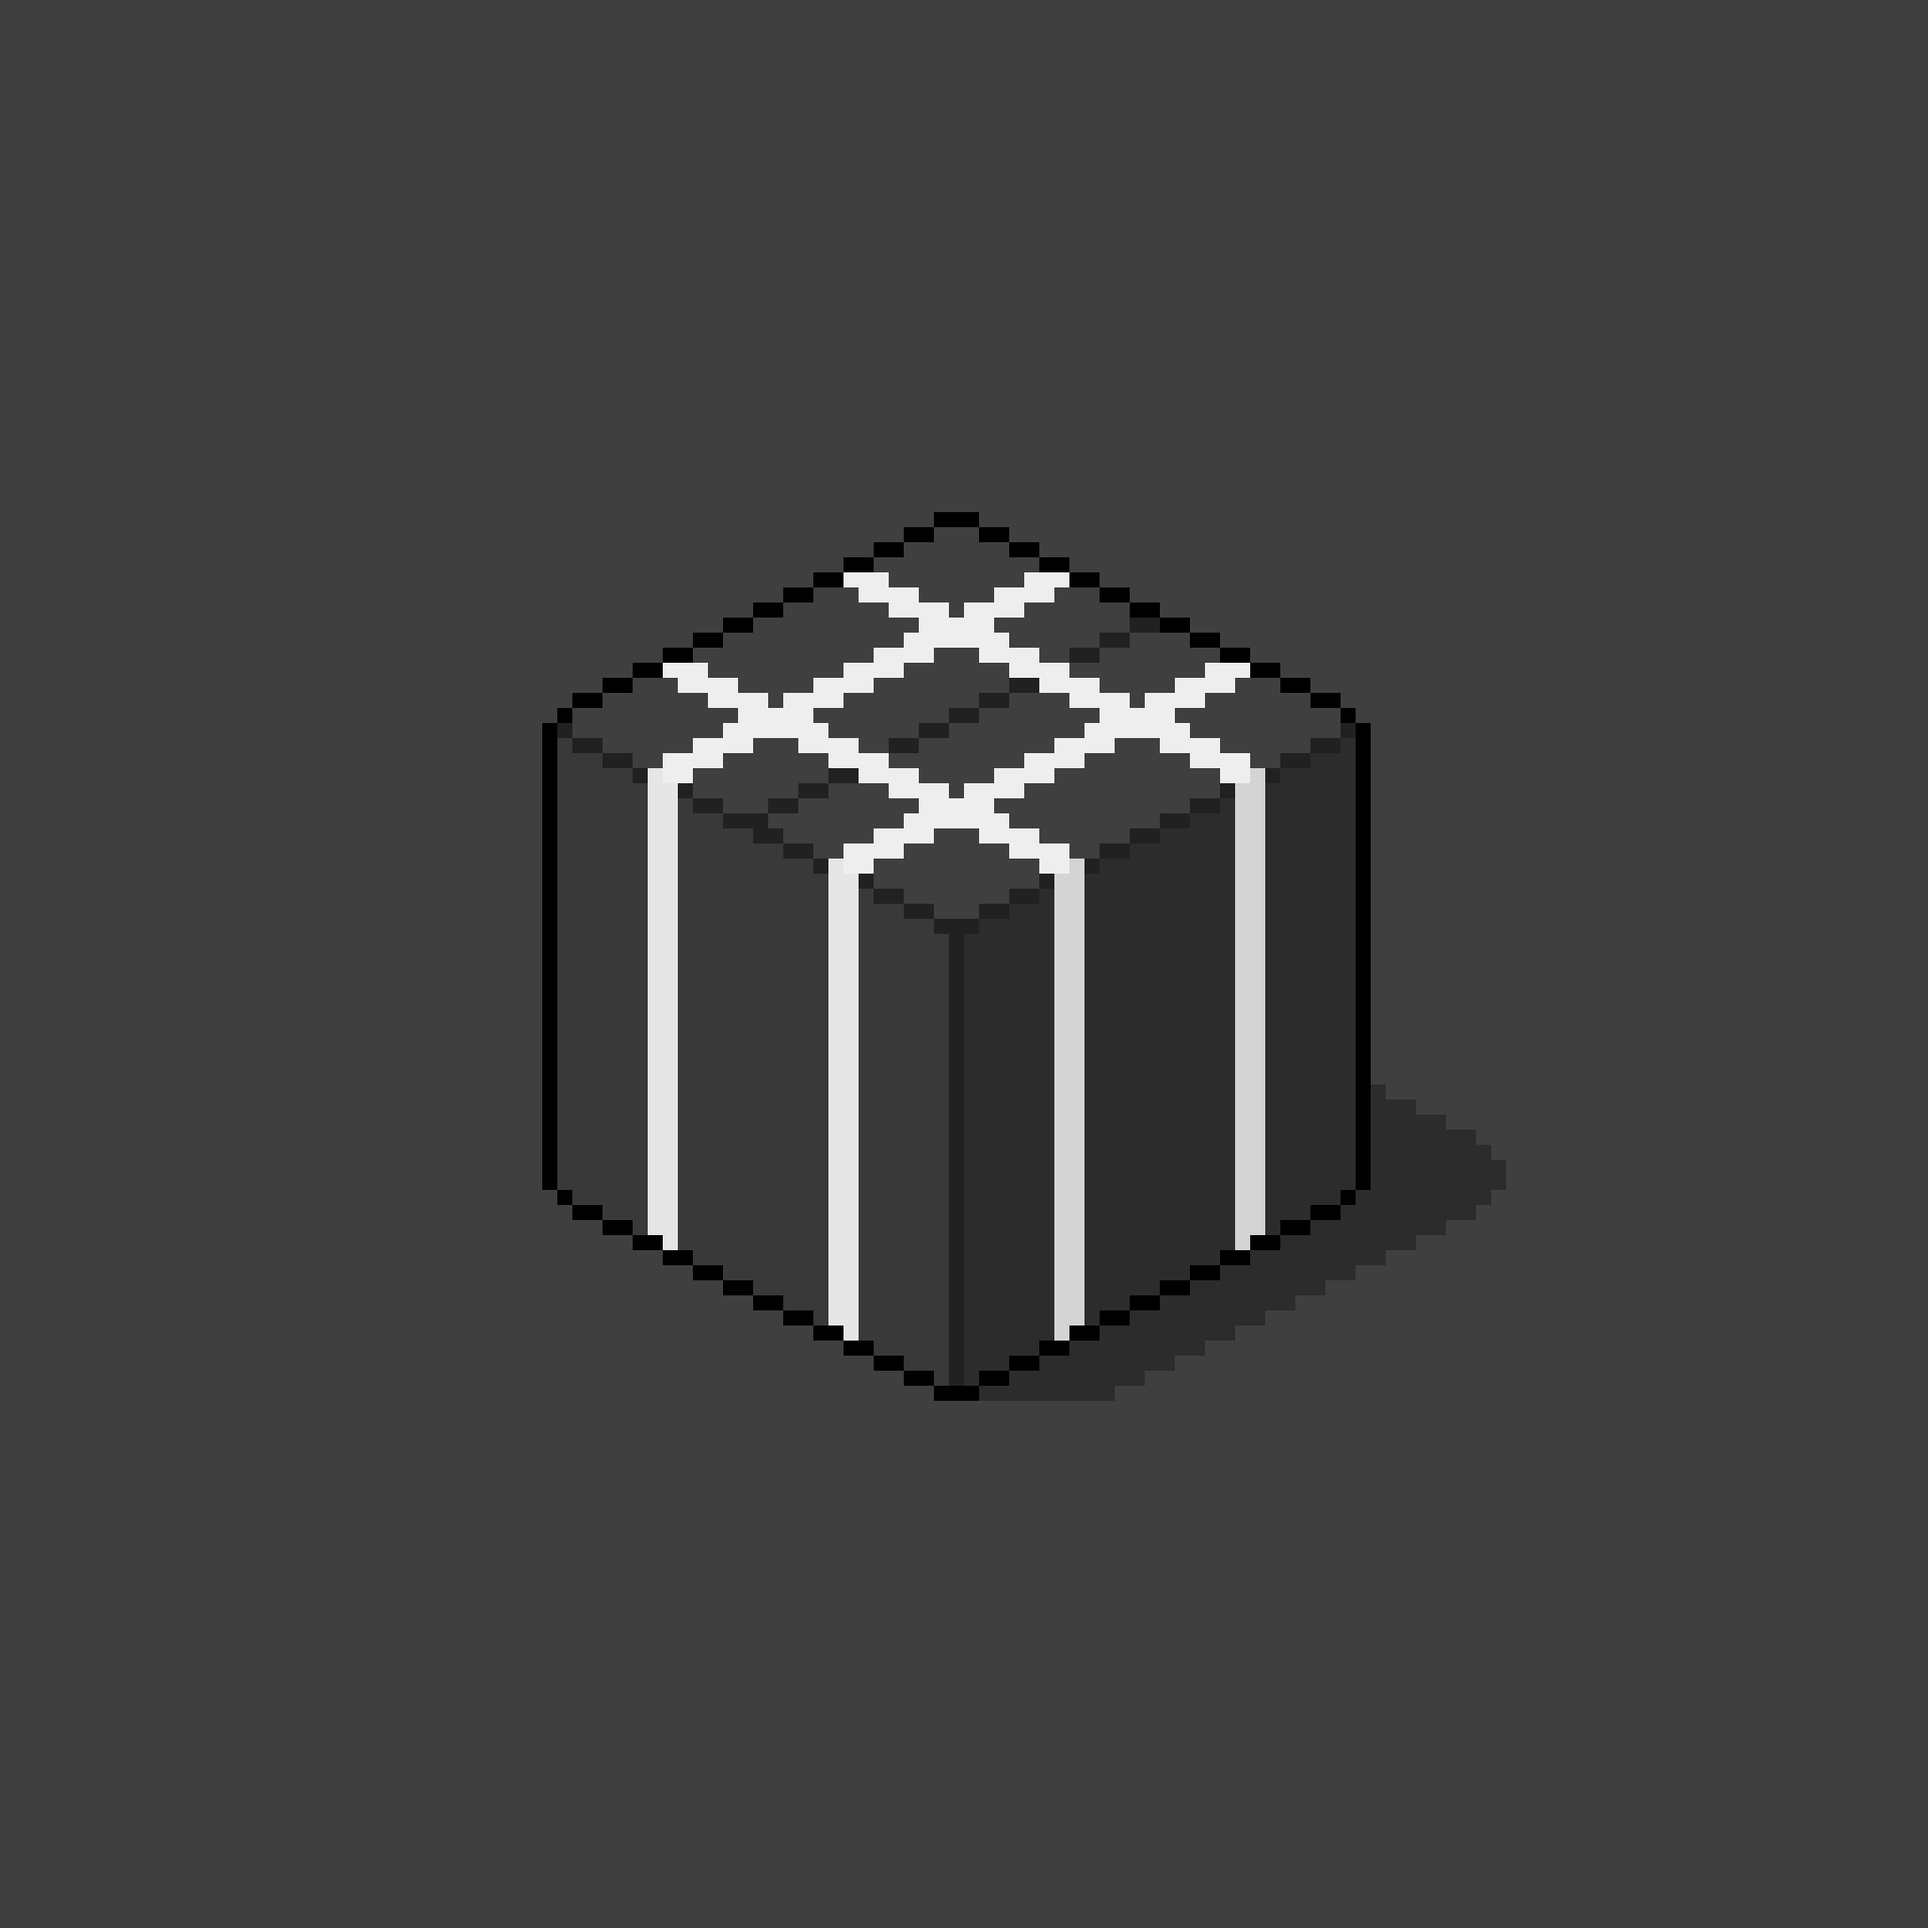
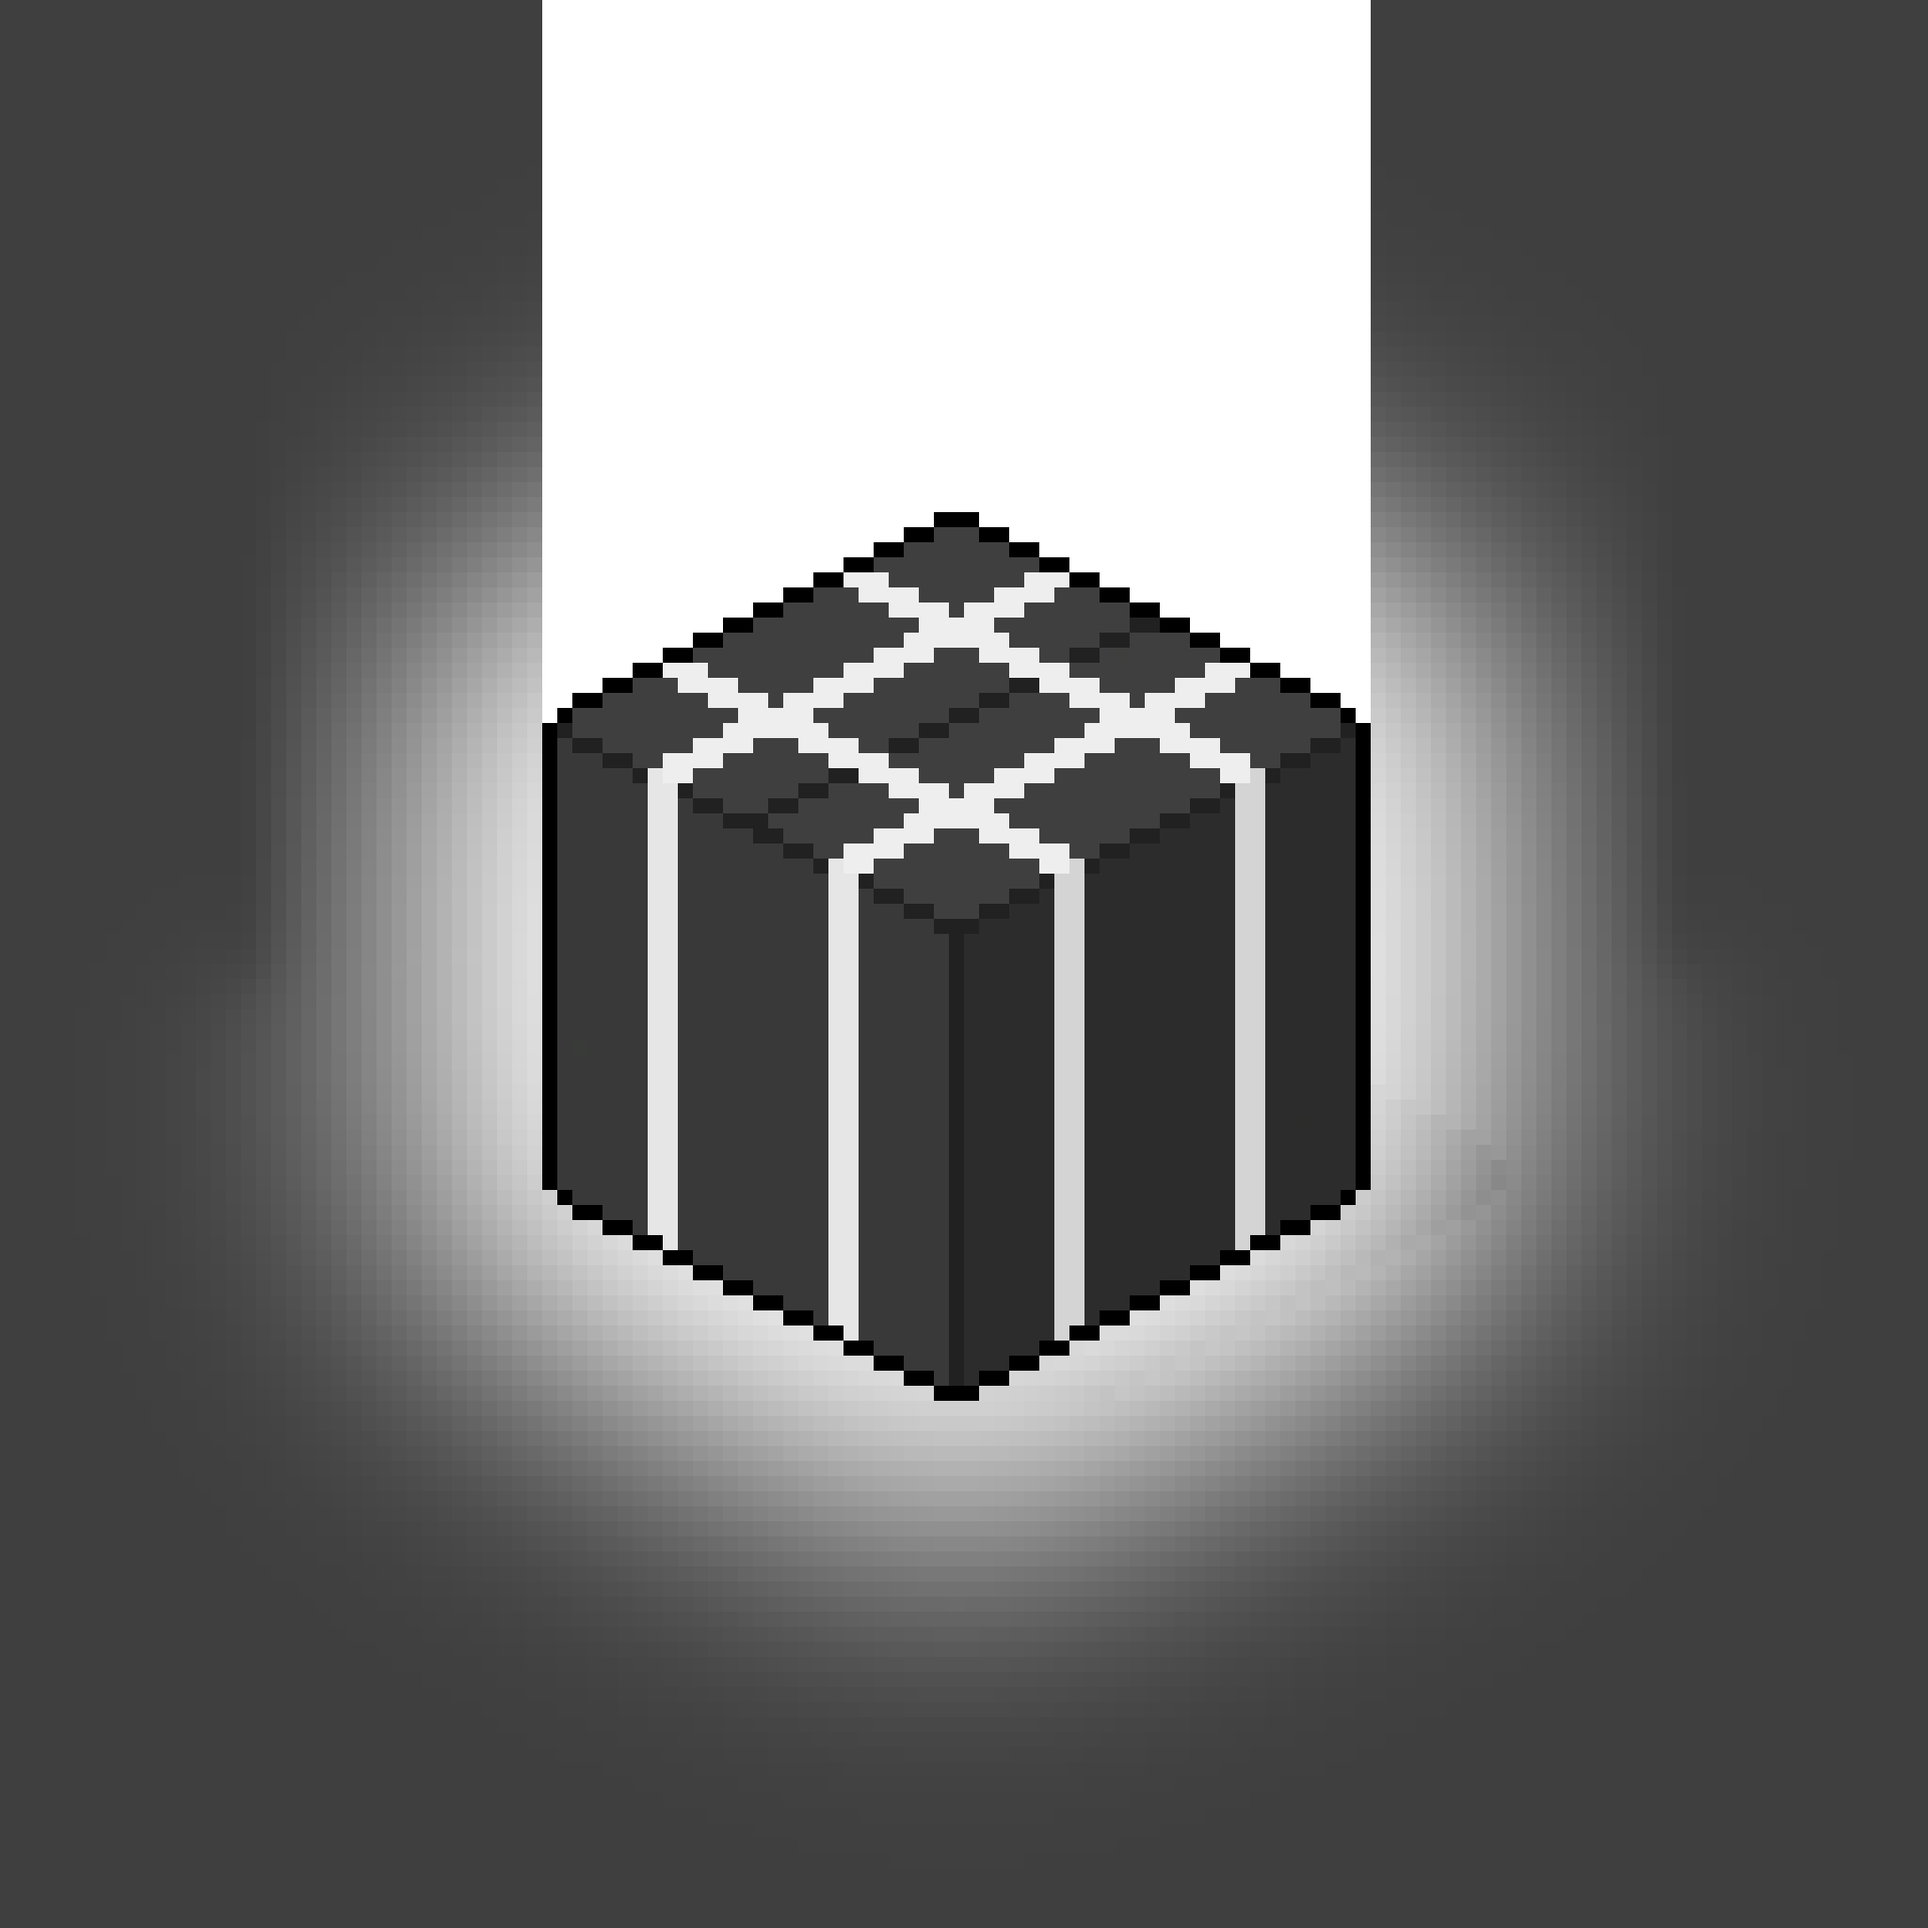
cute custom

diff --git a/main.go b/main.go
@@ -46,7 +46,7 @@ func init() {
 }
 
 func main() {
-	boxes.CreateCustom([]string{boxes.BACKGROUND_BG_DARK_GREY, boxes.BACKGROUND_LINES, boxes.COLOR_DARK_GREY, boxes.BOX_LINES, boxes.STRAP_DOUBLE_STRAPPED_RIGHT, boxes.STRAP_DOUBLE_STRAPPED_LEFT})
+	boxes.CreateCustom([]string{boxes.BACKGROUND_BG_DARK_GREY, boxes.BACKGROUND_LINES, boxes.COLOR_DARK_GREY, boxes.BOX_LINES, boxes.STRAP_DOUBLE_STRAPPED_RIGHT, boxes.STRAP_DOUBLE_STRAPPED_LEFT, boxes.STATE_BEACON})
 
 	/* createGIF(10)
 
